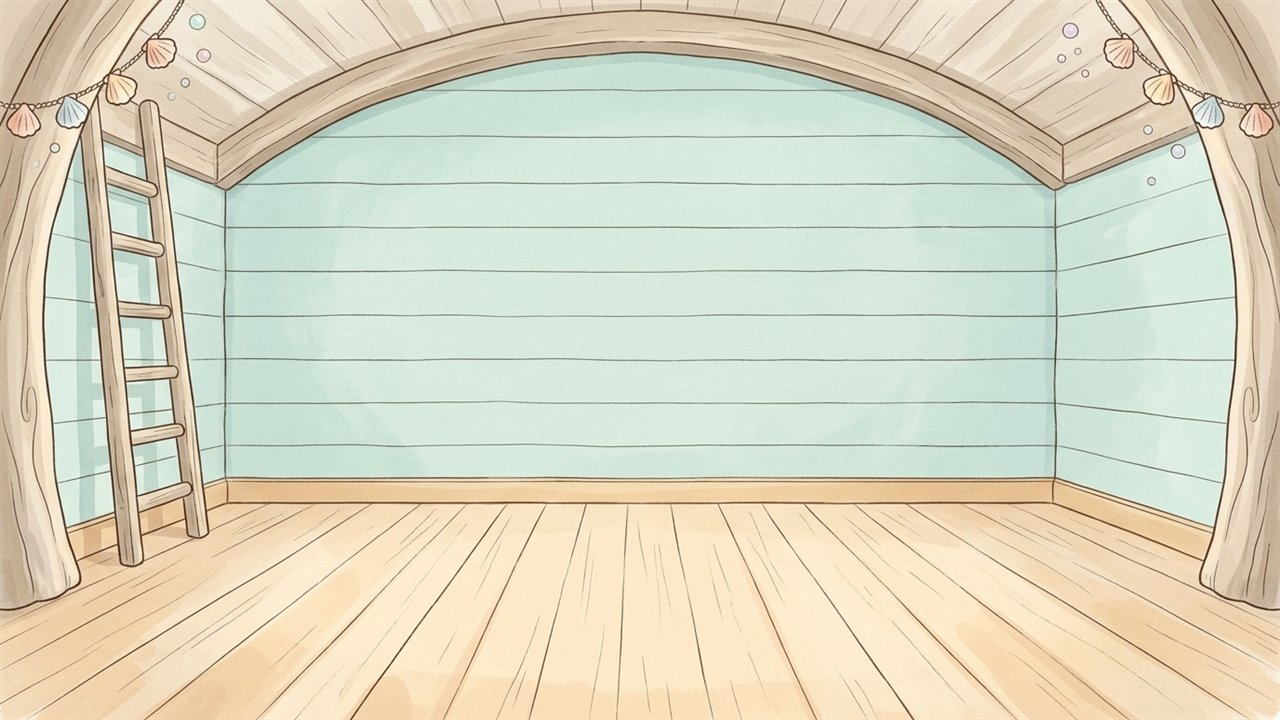
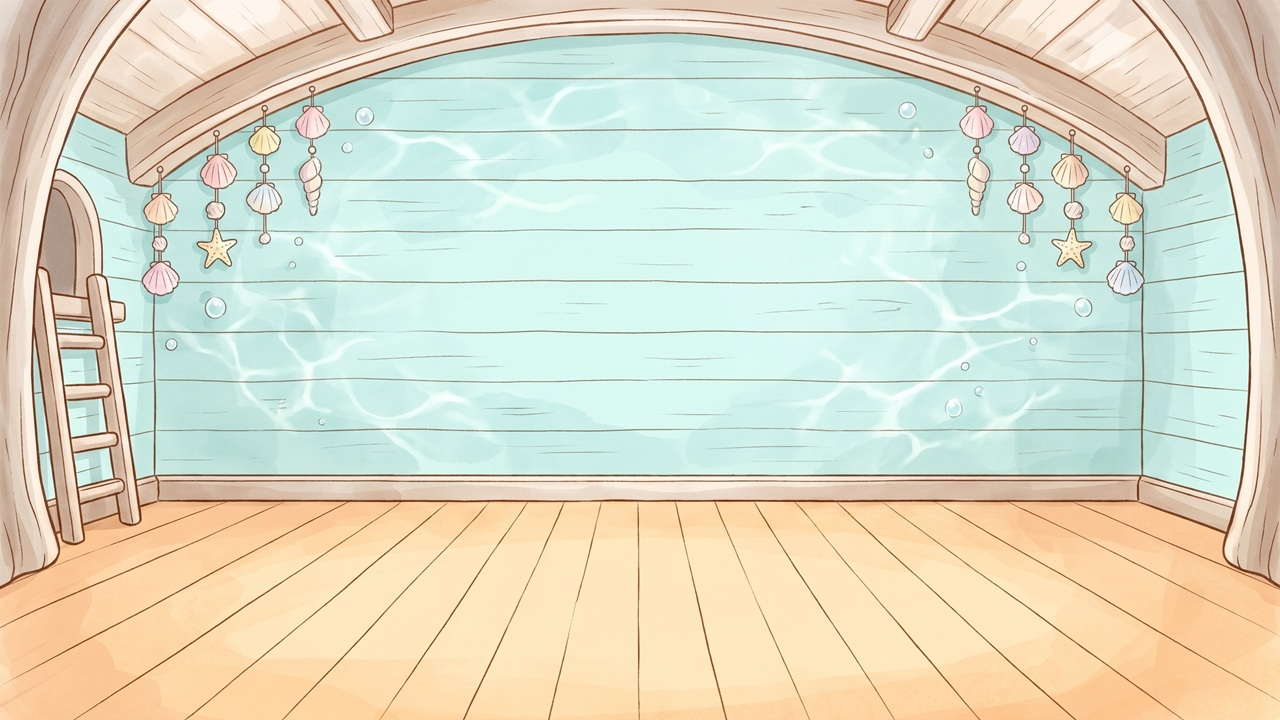
fix(quest): 統一四款秘密樹屋背景空間結構並微調共用家具擺位

diff --git a/css/mul-quest.css b/css/mul-quest.css
@@ -5316,9 +5316,9 @@ dialog.mqst-shop-dialog {
 
 .mqst-th-ceiling    { left: 51%; top: 1.5%;  width: 25.5%; transform: translateX(-50%); transform-origin: 50% 0%; z-index: 3; }
 .mqst-th-window     { left: 51%; top: 21%;   width: 19.5%; transform: translateX(-50%); z-index: 1; }
-.mqst-th-wall-decor { left: 77%; top: 19%;   width: 18%;   transform: translateX(-50%); z-index: 1; }
-.mqst-th-furniture  { left: 24.5%; bottom: 26%; width: 23.5%; transform: translateX(-50%); z-index: 2; }
-.mqst-th-decor      { left: 83.5%; bottom: 25.5%; width: 13%; transform: translateX(-50%); z-index: 2; }
+.mqst-th-wall-decor { left: 75.5%; top: 20.5%; width: 17.5%; transform: translateX(-50%); z-index: 1; }
+.mqst-th-furniture  { left: 25.5%; bottom: 24.5%; width: 23.5%; transform: translateX(-50%); z-index: 2; }
+.mqst-th-decor      { left: 81.5%; bottom: 24%; width: 13%; transform: translateX(-50%); z-index: 2; }
 .mqst-th-rug        { left: 50%; bottom: 2.5%;  width: 50%;   transform: translateX(-50%); z-index: 0; }
 .mqst-th-rug svg    { filter: drop-shadow(0 3px 0 rgba(51, 43, 34, 0.16)); }
 
@@ -5352,7 +5352,7 @@ dialog.mqst-shop-dialog {
 .mqst-th-bunny-spot          { left: 44%; bottom: 7.5%;  width: 13.5%; z-index: 3; }
 .mqst-th-playmate-spot.spot-0 { left: 27%; bottom: 7%;    width: 12%;   z-index: 4; }
 .mqst-th-playmate-spot.spot-1 { left: 60%; bottom: 7.5%;  width: 12%;   z-index: 4; }
-.mqst-th-playmate-spot.spot-2 { left: 71.5%; bottom: 13.5%; width: 10.5%; z-index: 2; }
+.mqst-th-playmate-spot.spot-2 { left: 70.5%; bottom: 13%; width: 10.5%; z-index: 2; }
 
 .mqst-th-bunny-btn {
   width: 100%;
